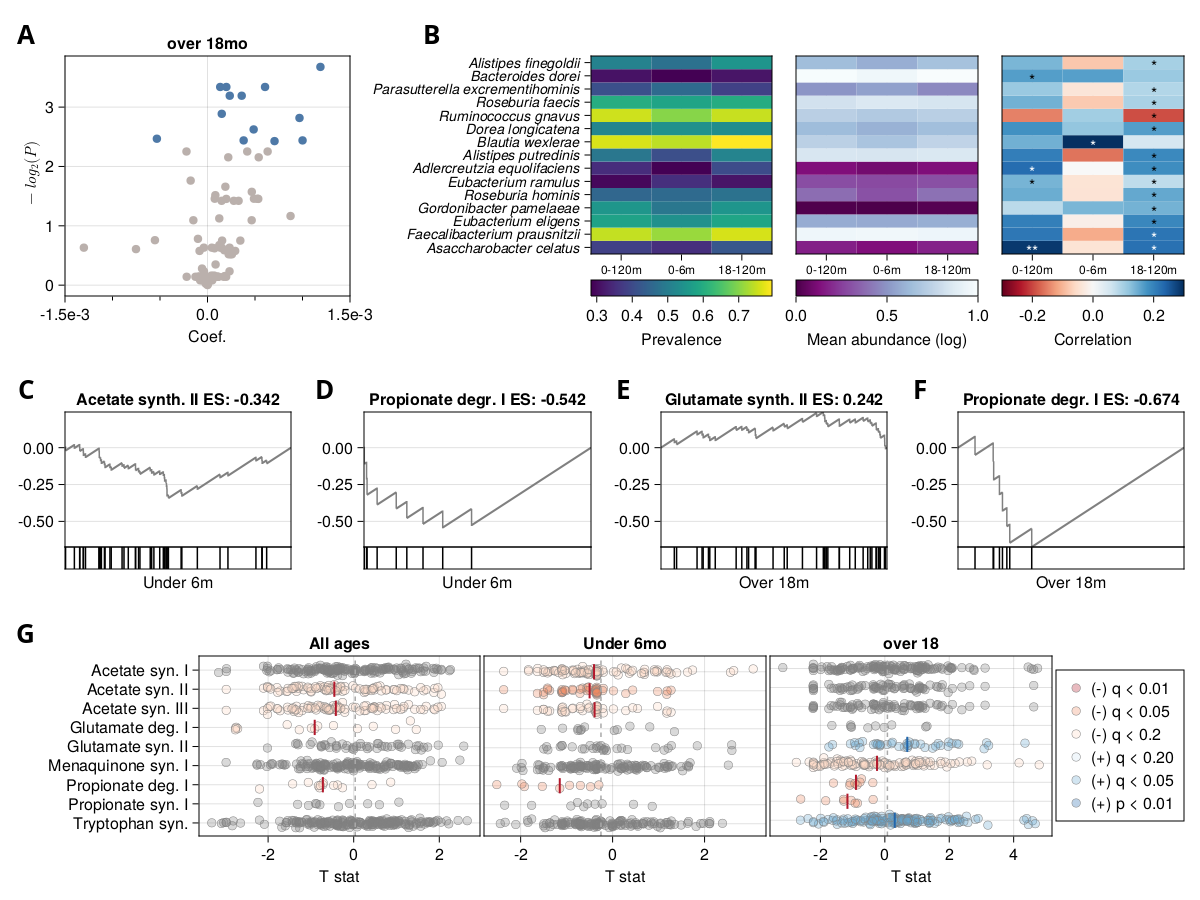
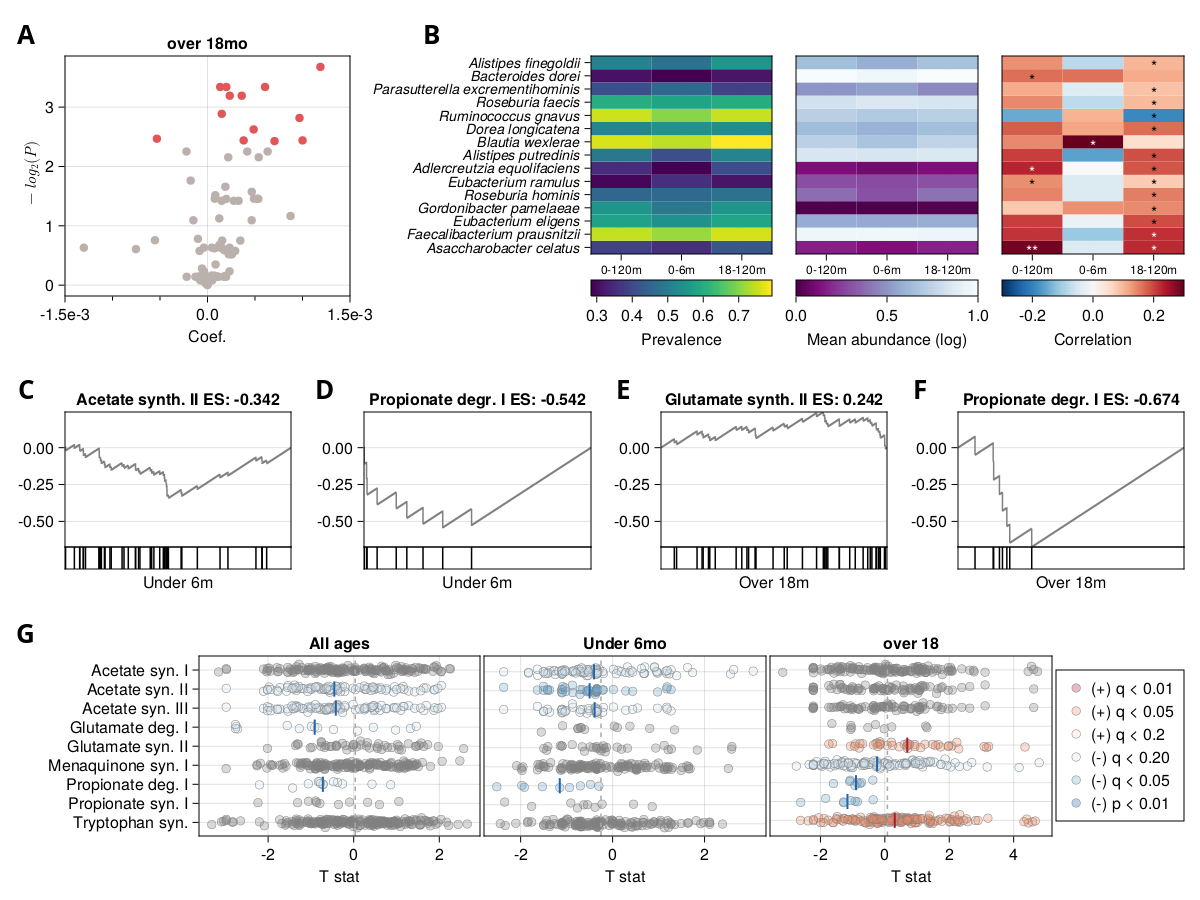
negative = blue

diff --git a/manuscript/Figure2.md b/manuscript/Figure2.md
@@ -107,7 +107,7 @@ aax = Axis(AB[1,1]; title = "over 18mo", ylabel=L"$-log_2(P)$", xlabel = "Coef."
                 xminorticksvisible=true, xminorticks = IntervalsBetween(3))
 
 scatter!(aax, speclms_18to120.coef, -1 .* log2.(speclms_18to120.qvalue);
-    color = map(q-> q < 0.2 ? 1 : 10, speclms_18to120.qvalue), colormap=:tableau_10)
+    color = map(q-> q < 0.2 ? ColorSchemes.tableau_10[3] : ColorSchemes.tableau_10[10], speclms_18to120.qvalue))
 ```
 ```julia
 B = GridLayout(AB[1, 2:3])
@@ -159,10 +159,10 @@ let clrs = [isnan(x) ? 0.0 : x for x in vcat((lms_mat[:, "corr_$group"] for grou
     
     poly!(bax3, [Rect(j, i, 1, 1) for j in 1:3 for i in eachindex(lms_mat.feature)]; 
         color = clrs, colorrange=(-0.3, 0.3),
-        colormap = :RdBu)
+        colormap = Reverse(:RdBu))
     
     
-    Colorbar(B[2,3]; colormap=:RdBu,
+    Colorbar(B[2,3]; colormap=Reverse(:RdBu),
                     vertical = false, flipaxis = false,
                     label="Correlation",
                     limits=(-0.3, 0.3))
@@ -250,9 +250,9 @@ let
     for (i, row) in enumerate(eachrow(df))
         sign = row.enrichment < 0 ? "neg" : "pos"
         c = row.qvalue > 0.2 ? :gray : 
-            row.qvalue > 0.05 ? (sign == "neg" ? colors[3] : colors[5]) :
-            row.qvalue > 0.01 ? (sign == "neg" ? colors[2] : colors[6]) :
-            sign == "neg" ? colors[1] : colors[7]
+            row.qvalue > 0.05 ? (sign == "pos" ? colors[3] : colors[5]) :
+            row.qvalue > 0.01 ? (sign == "pos" ? colors[2] : colors[6]) :
+            sign == "pos" ? colors[1] : colors[7]
 
         y = filter(x-> !isnan(x) && x < 7, cors_00to120.t[neuroactive_00to120[row.geneset]])
         scatter!(ax, y, rand(Normal(0, 0.1), length(y)) .+ i; color=(c,0.3), strokecolor=:gray, strokewidth=0.5)
@@ -273,9 +273,9 @@ let
     for (i, row) in enumerate(eachrow(df))
         sign = row.enrichment < 0 ? "neg" : "pos"
         c = row.qvalue > 0.2 ? :gray : 
-            row.qvalue > 0.05 ? (sign == "neg" ? colors[3] : colors[5]) :
-            row.qvalue > 0.01 ? (sign == "neg" ? colors[2] : colors[6]) :
-            sign == "neg" ? colors[1] : colors[7]
+            row.qvalue > 0.05 ? (sign == "pos" ? colors[3] : colors[5]) :
+            row.qvalue > 0.01 ? (sign == "pos" ? colors[2] : colors[6]) :
+            sign == "pos" ? colors[1] : colors[7]
 
         y = filter(x-> !isnan(x) && x < 7, cors_00to06.t[neuroactive_00to06[row.geneset]])
         scatter!(ax, y, rand(Normal(0, 0.1), length(y)) .+ i; color=(c,0.3), strokecolor=:gray, strokewidth=0.5)
@@ -295,9 +295,9 @@ let
     for (i, row) in enumerate(eachrow(df))
         sign = row.enrichment < 0 ? "neg" : "pos"
         c = row.qvalue > 0.2 ? :gray : 
-            row.qvalue > 0.05 ? (sign == "neg" ? colors[3] : colors[5]) :
-            row.qvalue > 0.01 ? (sign == "neg" ? colors[2] : colors[6]) :
-            sign == "neg" ? colors[1] : colors[7]
+            row.qvalue > 0.05 ? (sign == "pos" ? colors[3] : colors[5]) :
+            row.qvalue > 0.01 ? (sign == "pos" ? colors[2] : colors[6]) :
+            sign == "pos" ? colors[1] : colors[7]
 
         y = filter(x-> !isnan(x) && x < 7, cors_18to120.t[neuroactive_18to120[row.geneset]])
         scatter!(ax, y, rand(Normal(0, 0.1), length(y)) .+ i; color=(c,0.3), strokecolor=:gray, strokewidth=0.5)
@@ -309,8 +309,8 @@ let
                                     marker=:circle,
                                     strokecolor=:gray,
                                     strokewidth=0.5) for c in colors[[1:3..., 5:7...]]],
-                   ["(-) q < 0.01", "(-) q < 0.05", "(-) q < 0.2", 
-                    "(+) q < 0.20", "(+) q < 0.05", "(+) p < 0.01"])
+                   ["(+) q < 0.01", "(+) q < 0.05", "(+) q < 0.2", 
+                    "(-) q < 0.20", "(-) q < 0.05", "(-) p < 0.01"])
 end
 
 # rowsize!(figure.layout, 3, Relative(2/5))
